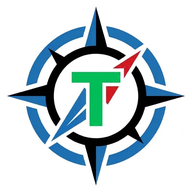
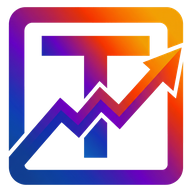
feat: 사이트 로고를 text_logo6으로 교체

diff --git a/branding/README.md b/branding/README.md
@@ -1,9 +1,9 @@
 # 로고
 
-- `logo/logo.jpg`: 지금 쓰는 메인 로고 원본(1024×1024, 흰 바탕).
-- `logo/trendist_logo3·4·5·7.jpg`: 예비 로고 원본.
+- `logo/text_logo6.png`: 지금 쓰는 메인 로고 원본(2048×2048, 흰 바탕, T와 오르는 화살표).
+- `logo/logo.jpg`, `logo/text_logo1~5.png`, `logo/compass_logo1~5`: 예전·예비 로고 원본.
 
-사이트에 쓰는 파일은 원본에서 만들어 `public/`에 둔다. 흰 바탕 원본은 어두운 화면에서 사각형으로 보이므로, 로고 둘레를 원으로 잘라 바깥을 투명하게 한다.
+사이트에 쓰는 파일은 원본에서 만들어 `public/`에 둔다. 흰 바탕 원본은 어두운 화면에서 사각형으로 보이므로, 그림 둘레에 맞춰 정사각형으로 자르고(여백 4%) 흰 바탕을 투명하게 한다(모서리에서 이어진 흰색만 지우므로 그림 안의 색은 그대로).
 
 | 파일 | 크기 | 쓰는 곳 |
 |---|---|---|
@@ -13,4 +13,4 @@
 | `public/apple-touch-icon.png` | 180×180, 흰 바탕 사각형 | iOS 홈 화면 |
 | `public/icon-192.png` | 192×192 | 링크 미리보기(`og:image`) |
 
-로고를 바꾸면 `logo/logo.jpg`를 교체하고 위 파일들을 다시 만든다.
+로고를 바꾸면 원본을 넣고 위 파일들을 다시 만든다.
